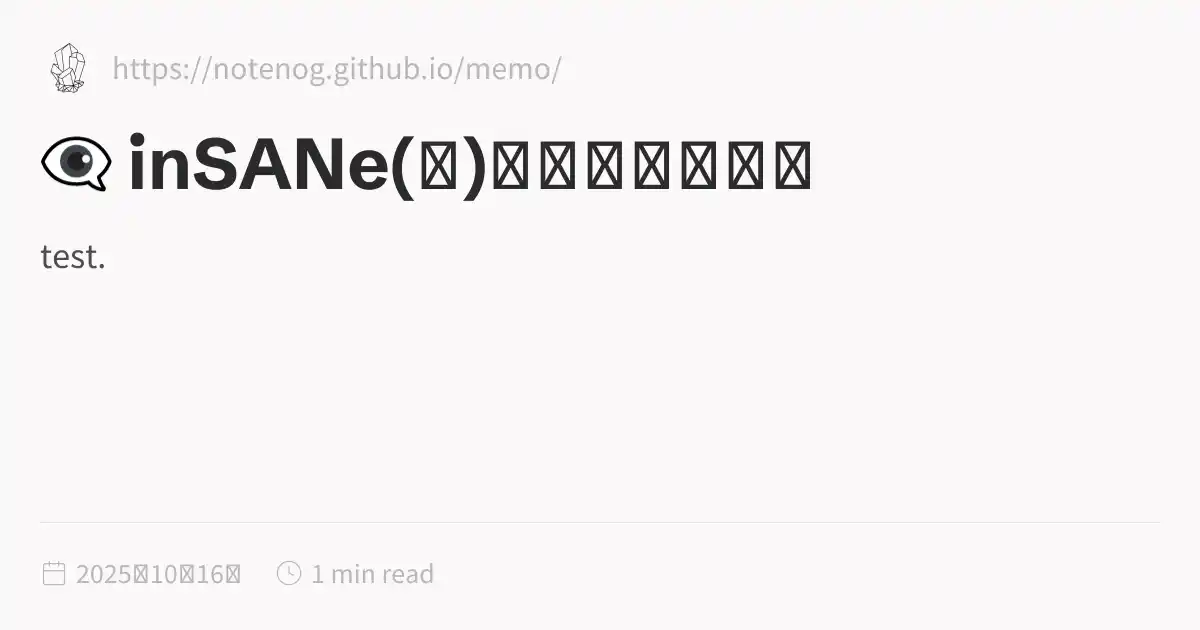
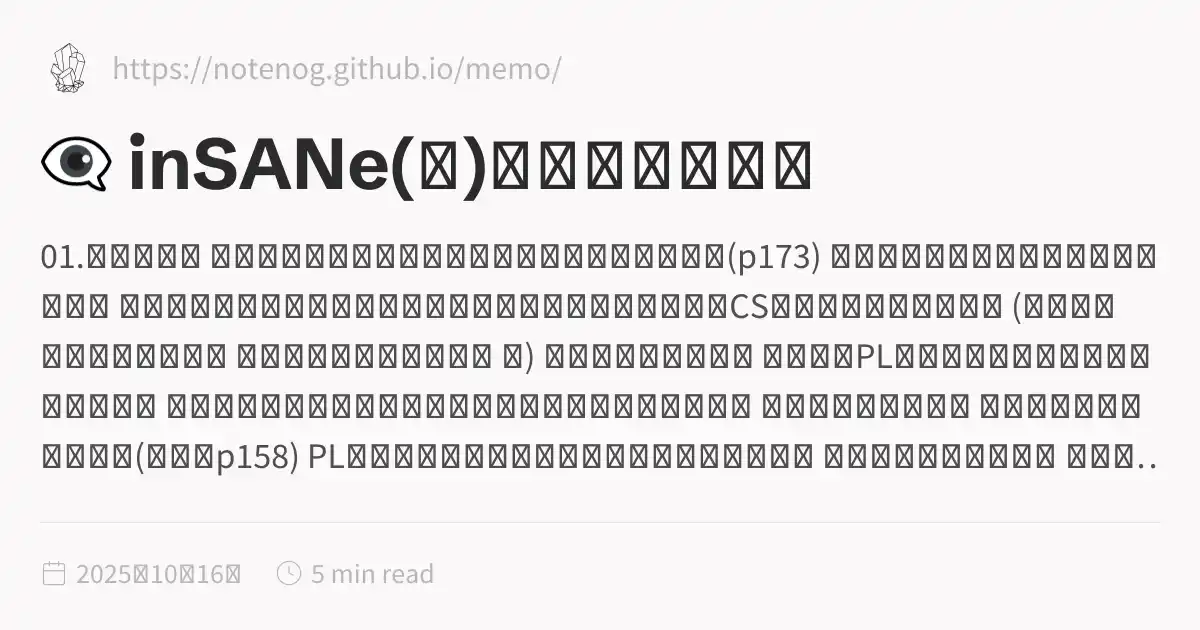
fix: Final push of clean assets with all content emitters disabled

diff --git a/docs/inSANe_old.html b/docs/inSANe_old.html
@@ -1,5 +1,5 @@
 <!DOCTYPE html>
-<html lang="ja" dir="ltr"><head><title>👁🗨 inSANe(旧)／ハウスルール</title><meta charset="utf-8"/><link rel="preconnect" href="https://fonts.googleapis.com"/><link rel="preconnect" href="https://fonts.gstatic.com"/><link rel="stylesheet" href="https://fonts.googleapis.com/css2?family=Schibsted Grotesk:wght@400;700&amp;family=Source Sans Pro:ital,wght@0,400;0,600;1,400;1,600&amp;family=IBM Plex Mono:wght@400;600&amp;display=swap"/><link rel="preconnect" href="https://cdnjs.cloudflare.com" crossorigin="anonymous"/><meta name="viewport" content="width=device-width, initial-scale=1.0"/><meta name="og:site_name" content="MEMO"/><meta property="og:title" content="👁🗨 inSANe(旧)／ハウスルール"/><meta property="og:type" content="website"/><meta name="twitter:card" content="summary_large_image"/><meta name="twitter:title" content="👁🗨 inSANe(旧)／ハウスルール"/><meta name="twitter:description" content="test."/><meta property="og:description" content="test."/><meta property="og:image:alt" content="test."/><meta property="twitter:domain" content="https://notenog.github.io/memo/"/><meta property="og:url" content="https://https//notenog.github.io/memo/inSANe_old"/><meta property="twitter:url" content="https://https//notenog.github.io/memo/inSANe_old"/><link rel="icon" href="./static/icon.png"/><meta name="description" content="test."/><meta name="generator" content="Quartz"/><link href="./index.css" rel="stylesheet" type="text/css" spa-preserve/><style>.expand-button {
+<html lang="ja" dir="ltr"><head><title>👁🗨 inSANe(旧)／ハウスルール</title><meta charset="utf-8"/><link rel="preconnect" href="https://fonts.googleapis.com"/><link rel="preconnect" href="https://fonts.gstatic.com"/><link rel="stylesheet" href="https://fonts.googleapis.com/css2?family=Schibsted Grotesk:wght@400;700&amp;family=Source Sans Pro:ital,wght@0,400;0,600;1,400;1,600&amp;family=IBM Plex Mono:wght@400;600&amp;display=swap"/><link rel="preconnect" href="https://cdnjs.cloudflare.com" crossorigin="anonymous"/><meta name="viewport" content="width=device-width, initial-scale=1.0"/><meta name="og:site_name" content="MEMO"/><meta property="og:title" content="👁🗨 inSANe(旧)／ハウスルール"/><meta property="og:type" content="website"/><meta name="twitter:card" content="summary_large_image"/><meta name="twitter:title" content="👁🗨 inSANe(旧)／ハウスルール"/><meta name="twitter:description" content="01.基本ルール 【キャラクターの職業及び職業の自作について】(p173) 基本的に職業特技を適用して下さい。 職業を自作する際は、職業に当てはめた特技を２つ選び、CSに記載してください。 (例：泥棒「物陰」「効率」 宗教家「歴史」「霊魂」 等) 【行動順について】 希望したPLから順にシーンを回していきます。 あるいは好きなダイスを振って大きい数字順にどうぞ。 【起用選択ルール】 感情判定でのスペシャル(２巻、p158) PL全員がインセイン２巻を所持してる場合のみ 【情報共有について】 感情を結んだ際に起こる「情報共有」は、受け手側が情報を見たいと宣言した時点で共有されます。 能動側が強制..."/><meta property="og:description" content="01.基本ルール 【キャラクターの職業及び職業の自作について】(p173) 基本的に職業特技を適用して下さい。 職業を自作する際は、職業に当てはめた特技を２つ選び、CSに記載してください。 (例：泥棒「物陰」「効率」 宗教家「歴史」「霊魂」 等) 【行動順について】 希望したPLから順にシーンを回していきます。 あるいは好きなダイスを振って大きい数字順にどうぞ。 【起用選択ルール】 感情判定でのスペシャル(２巻、p158) PL全員がインセイン２巻を所持してる場合のみ 【情報共有について】 感情を結んだ際に起こる「情報共有」は、受け手側が情報を見たいと宣言した時点で共有されます。 能動側が強制..."/><meta property="og:image:alt" content="01.基本ルール 【キャラクターの職業及び職業の自作について】(p173) 基本的に職業特技を適用して下さい。 職業を自作する際は、職業に当てはめた特技を２つ選び、CSに記載してください。 (例：泥棒「物陰」「効率」 宗教家「歴史」「霊魂」 等) 【行動順について】 希望したPLから順にシーンを回していきます。 あるいは好きなダイスを振って大きい数字順にどうぞ。 【起用選択ルール】 感情判定でのスペシャル(２巻、p158) PL全員がインセイン２巻を所持してる場合のみ 【情報共有について】 感情を結んだ際に起こる「情報共有」は、受け手側が情報を見たいと宣言した時点で共有されます。 能動側が強制..."/><meta property="twitter:domain" content="https://notenog.github.io/memo/"/><meta property="og:url" content="https://https//notenog.github.io/memo/inSANe_old"/><meta property="twitter:url" content="https://https//notenog.github.io/memo/inSANe_old"/><link rel="icon" href="./static/icon.png"/><meta name="description" content="01.基本ルール 【キャラクターの職業及び職業の自作について】(p173) 基本的に職業特技を適用して下さい。 職業を自作する際は、職業に当てはめた特技を２つ選び、CSに記載してください。 (例：泥棒「物陰」「効率」 宗教家「歴史」「霊魂」 等) 【行動順について】 希望したPLから順にシーンを回していきます。 あるいは好きなダイスを振って大きい数字順にどうぞ。 【起用選択ルール】 感情判定でのスペシャル(２巻、p158) PL全員がインセイン２巻を所持してる場合のみ 【情報共有について】 感情を結んだ際に起こる「情報共有」は、受け手側が情報を見たいと宣言した時点で共有されます。 能動側が強制..."/><meta name="generator" content="Quartz"/><link href="./index.css" rel="stylesheet" type="text/css" spa-preserve/><style>.expand-button {
   position: absolute;
   display: flex;
   float: right;
@@ -116,6 +116,123 @@ pre:hover > .expand-button {
   padding: 0 12px;
   font-size: 14px;
 }
[2 lines of base64/hex data omitted]
+<br/>
+<h2 id="キャラクターの職業及び職業の自作についてp173">【キャラクターの職業及び職業の自作について】(p173)<a role="anchor" aria-hidden="true" tabindex="-1" data-no-popover="true" href="#キャラクターの職業及び職業の自作についてp173" class="internal"><svg width="18" height="18" viewBox="0 0 24 24" fill="none" stroke="currentColor" stroke-width="2" stroke-linecap="round" stroke-linejoin="round"><path d="M10 13a5 5 0 0 0 7.54.54l3-3a5 5 0 0 0-7.07-7.07l-1.72 1.71"></path><path d="M14 11a5 5 0 0 0-7.54-.54l-3 3a5 5 0 0 0 7.07 7.07l1.71-1.71"></path></svg></a></h2>
+<ul>
+<li>基本的に職業特技を適用して下さい。</li>
+<li>職業を自作する際は、職業に当てはめた特技を２つ選び、CSに記載してください。
+　(例：泥棒「物陰」「効率」　宗教家「歴史」「霊魂」　等)</li>
+</ul>
+<br/>
+<h2 id="行動順について">【行動順について】<a role="anchor" aria-hidden="true" tabindex="-1" data-no-popover="true" href="#行動順について" class="internal"><svg width="18" height="18" viewBox="0 0 24 24" fill="none" stroke="currentColor" stroke-width="2" stroke-linecap="round" stroke-linejoin="round"><path d="M10 13a5 5 0 0 0 7.54.54l3-3a5 5 0 0 0-7.07-7.07l-1.72 1.71"></path><path d="M14 11a5 5 0 0 0-7.54-.54l-3 3a5 5 0 0 0 7.07 7.07l1.71-1.71"></path></svg></a></h2>
+<ul>
+<li>希望したPLから順にシーンを回していきます。</li>
+<li>あるいは好きなダイスを振って大きい数字順にどうぞ。</li>
+</ul>
+<br/>
+<h2 id="起用選択ルール">【起用選択ルール】<a role="anchor" aria-hidden="true" tabindex="-1" data-no-popover="true" href="#起用選択ルール" class="internal"><svg width="18" height="18" viewBox="0 0 24 24" fill="none" stroke="currentColor" stroke-width="2" stroke-linecap="round" stroke-linejoin="round"><path d="M10 13a5 5 0 0 0 7.54.54l3-3a5 5 0 0 0-7.07-7.07l-1.72 1.71"></path><path d="M14 11a5 5 0 0 0-7.54-.54l-3 3a5 5 0 0 0 7.07 7.07l1.71-1.71"></path></svg></a></h2>
+<ul>
+<li>感情判定でのスペシャル(２巻、p158)</li>
+</ul>
+<blockquote class="callout info is-collapsible is-collapsed" data-callout="info" data-callout-fold>
+<div class="callout-title">
+                  <div class="callout-icon"></div>
+                  <div class="callout-title-inner"><p>PL全員がインセイン２巻を所持してる場合のみ </p></div>
+                  <div class="fold-callout-icon"></div>
+                </div>
+</blockquote>
+<br/>
+<h2 id="情報共有について">【情報共有について】<a role="anchor" aria-hidden="true" tabindex="-1" data-no-popover="true" href="#情報共有について" class="internal"><svg width="18" height="18" viewBox="0 0 24 24" fill="none" stroke="currentColor" stroke-width="2" stroke-linecap="round" stroke-linejoin="round"><path d="M10 13a5 5 0 0 0 7.54.54l3-3a5 5 0 0 0-7.07-7.07l-1.72 1.71"></path><path d="M14 11a5 5 0 0 0-7.54-.54l-3 3a5 5 0 0 0 7.07 7.07l1.71-1.71"></path></svg></a></h2>
+<ul>
+<li>感情を結んだ際に起こる「情報共有」は、受け手側が情報を見たいと宣言した時点で共有されます。</li>
+</ul>
+<blockquote class="callout info is-collapsible is-collapsed" data-callout="info" data-callout-fold>
+<div class="callout-title">
+                  <div class="callout-icon"></div>
+                  <div class="callout-title-inner"><p>能動側が強制的に見せることは出来ません。 </p></div>
+                  <div class="fold-callout-icon"></div>
+                </div>
+</blockquote>
+<br/>
+<h2 id="好奇心の再挑戦について">【好奇心の再挑戦について】<a role="anchor" aria-hidden="true" tabindex="-1" data-no-popover="true" href="#好奇心の再挑戦について" class="internal"><svg width="18" height="18" viewBox="0 0 24 24" fill="none" stroke="currentColor" stroke-width="2" stroke-linecap="round" stroke-linejoin="round"><path d="M10 13a5 5 0 0 0 7.54.54l3-3a5 5 0 0 0-7.07-7.07l-1.72 1.71"></path><path d="M14 11a5 5 0 0 0-7.54-.54l-3 3a5 5 0 0 0 7.07 7.07l1.71-1.71"></path></svg></a></h2>
+<ul>
+<li>１行為判定につき１度再挑戦可能とします。
+　失敗の場合でもコストは消費します。</li>
+</ul>
+<br/>
+<h2 id="お守りについて">【お守りについて】<a role="anchor" aria-hidden="true" tabindex="-1" data-no-popover="true" href="#お守りについて" class="internal"><svg width="18" height="18" viewBox="0 0 24 24" fill="none" stroke="currentColor" stroke-width="2" stroke-linecap="round" stroke-linejoin="round"><path d="M10 13a5 5 0 0 0 7.54.54l3-3a5 5 0 0 0-7.07-7.07l-1.72 1.71"></path><path d="M14 11a5 5 0 0 0-7.54-.54l-3 3a5 5 0 0 0 7.07 7.07l1.71-1.71"></path></svg></a></h2>
+<ul>
+<li>同じシーンに登場している人のみ投げることが可能です。</li>
+</ul>
+<br/>
+<h2 id="武器ついて">【武器ついて】<a role="anchor" aria-hidden="true" tabindex="-1" data-no-popover="true" href="#武器ついて" class="internal"><svg width="18" height="18" viewBox="0 0 24 24" fill="none" stroke="currentColor" stroke-width="2" stroke-linecap="round" stroke-linejoin="round"><path d="M10 13a5 5 0 0 0 7.54.54l3-3a5 5 0 0 0-7.07-7.07l-1.72 1.71"></path><path d="M14 11a5 5 0 0 0-7.54-.54l-3 3a5 5 0 0 0 7.07 7.07l1.71-1.71"></path></svg></a></h2>
+<ul>
+<li>戦闘中の<b>「行為判定」後</b>、使用することが出来ます。</li>
+</ul>
+<br/> 
+<h2 id="振り直し後の補正について">【振り直し後の補正について】<a role="anchor" aria-hidden="true" tabindex="-1" data-no-popover="true" href="#振り直し後の補正について" class="internal"><svg width="18" height="18" viewBox="0 0 24 24" fill="none" stroke="currentColor" stroke-width="2" stroke-linecap="round" stroke-linejoin="round"><path d="M10 13a5 5 0 0 0 7.54.54l3-3a5 5 0 0 0-7.07-7.07l-1.72 1.71"></path><path d="M14 11a5 5 0 0 0-7.54-.54l-3 3a5 5 0 0 0 7.07 7.07l1.71-1.71"></path></svg></a></h2>
+<p>好奇心、お守り、武器、アビリティ効果で振り直した次の行為判定に対して、改めて補正(感情修正や回想、アビリティ効果)をかけ直すことを可とします。</p>
+<br/>  
+<h2 id="アイテムの受け渡しについて">【アイテムの受け渡しについて】<a role="anchor" aria-hidden="true" tabindex="-1" data-no-popover="true" href="#アイテムの受け渡しについて" class="internal"><svg width="18" height="18" viewBox="0 0 24 24" fill="none" stroke="currentColor" stroke-width="2" stroke-linecap="round" stroke-linejoin="round"><path d="M10 13a5 5 0 0 0 7.54.54l3-3a5 5 0 0 0-7.07-7.07l-1.72 1.71"></path><path d="M14 11a5 5 0 0 0-7.54-.54l-3 3a5 5 0 0 0 7.07 7.07l1.71-1.71"></path></svg></a></h2>
+<ul>
+<li>メインフェイズ～クライマックス戦闘前までは受け渡し自由、</li>
+<li>戦闘中の受け渡しは支援行動とし、能動側が１手番消費すれば可能です。</li>
+</ul>
+<br/>
+<hr/>
+<h1 id="02戦闘ルール">02.戦闘ルール<a role="anchor" aria-hidden="true" tabindex="-1" data-no-popover="true" href="#02戦闘ルール" class="internal"><svg width="18" height="18" viewBox="0 0 24 24" fill="none" stroke="currentColor" stroke-width="2" stroke-linecap="round" stroke-linejoin="round"><path d="M10 13a5 5 0 0 0 7.54.54l3-3a5 5 0 0 0-7.07-7.07l-1.72 1.71"></path><path d="M14 11a5 5 0 0 0-7.54-.54l-3 3a5 5 0 0 0 7.07 7.07l1.71-1.71"></path></svg></a></h1>
+<br/>
+<h3 id="生命点について">【生命点について】<a role="anchor" aria-hidden="true" tabindex="-1" data-no-popover="true" href="#生命点について" class="internal"><svg width="18" height="18" viewBox="0 0 24 24" fill="none" stroke="currentColor" stroke-width="2" stroke-linecap="round" stroke-linejoin="round"><path d="M10 13a5 5 0 0 0 7.54.54l3-3a5 5 0 0 0-7.07-7.07l-1.72 1.71"></path><path d="M14 11a5 5 0 0 0-7.54-.54l-3 3a5 5 0 0 0 7.07 7.07l1.71-1.71"></path></svg></a></h3>
+<ul>
+<li>生命点は０以下になりません。</li>
+<li>生命点０のキャラクターは行動不能になり、何の行動も行うことが出来ません。(p210)
+　そのため、生命点が０になった時点での回復は出来ません。</li>
+</ul>
+<br/>
+<h3 id="回想について">【回想について】<a role="anchor" aria-hidden="true" tabindex="-1" data-no-popover="true" href="#回想について" class="internal"><svg width="18" height="18" viewBox="0 0 24 24" fill="none" stroke="currentColor" stroke-width="2" stroke-linecap="round" stroke-linejoin="round"><path d="M10 13a5 5 0 0 0 7.54.54l3-3a5 5 0 0 0-7.07-7.07l-1.72 1.71"></path><path d="M14 11a5 5 0 0 0-7.54-.54l-3 3a5 5 0 0 0 7.07 7.07l1.71-1.71"></path></svg></a></h3>
+<ul>
+<li>回想においても開かれた秘密でも「ショック」「恐怖判定」は発生します。
+　ただし既に受けたものであれば再度の発生はありません。
+<br/>
+</li>
+<li>回想における「ショック」「恐怖判定」は、回想のダイスロール後に処理を行います。
+<br/>
+</li>
+<li>希望者は自分の回想の際に音楽等を持ち寄ることを自由とします。
+　演出を各自追加して頂いて結構です。
+　自分の回想用カットインのタグには「PC番号」を入れてください。</li>
+</ul>
+<blockquote class="callout info is-collapsible is-collapsed" data-callout="info" data-callout-fold>
+<div class="callout-title">
+                  <div class="callout-icon"></div>
+                  <div class="callout-title-inner"><p>操作が分からない方はGMにご連絡下さい </p></div>
+                  <div class="fold-callout-icon"></div>
+                </div>
+</blockquote>
+<p><br/><br/><br/></p>
+<ul>
+<li>その他、GM側でも自由に使える曲を用意します。</li>
+</ul>
+<br/>
+<hr/>
+<h1 id="03功績点処理">03.功績点処理<a role="anchor" aria-hidden="true" tabindex="-1" data-no-popover="true" href="#03功績点処理" class="internal"><svg width="18" height="18" viewBox="0 0 24 24" fill="none" stroke="currentColor" stroke-width="2" stroke-linecap="round" stroke-linejoin="round"><path d="M10 13a5 5 0 0 0 7.54.54l3-3a5 5 0 0 0-7.07-7.07l-1.72 1.71"></path><path d="M14 11a5 5 0 0 0-7.54-.54l-3 3a5 5 0 0 0 7.07 7.07l1.71-1.71"></path></svg></a></h1>
+<h4 id="セッションに最後まで脱落しなかった">「セッションに最後まで脱落しなかった」<a role="anchor" aria-hidden="true" tabindex="-1" data-no-popover="true" href="#セッションに最後まで脱落しなかった" class="internal"><svg width="18" height="18" viewBox="0 0 24 24" fill="none" stroke="currentColor" stroke-width="2" stroke-linecap="round" stroke-linejoin="round"><path d="M10 13a5 5 0 0 0 7.54.54l3-3a5 5 0 0 0-7.07-7.07l-1.72 1.71"></path><path d="M14 11a5 5 0 0 0-7.54-.54l-3 3a5 5 0 0 0 7.07 7.07l1.71-1.71"></path></svg></a></h4>
+<p>　戦闘における勝利条件に「全員での脱落」が含まれている場合、
+　あるいは「同意のうえ全員で脱落を選択し、勝者なしを選んだ」場合、全員功績点を１点獲得します。</p>
+<br/>
+<h4 id="琴線にふれた">「琴線にふれた」<a role="anchor" aria-hidden="true" tabindex="-1" data-no-popover="true" href="#琴線にふれた" class="internal"><svg width="18" height="18" viewBox="0 0 24 24" fill="none" stroke="currentColor" stroke-width="2" stroke-linecap="round" stroke-linejoin="round"><path d="M10 13a5 5 0 0 0 7.54.54l3-3a5 5 0 0 0-7.07-7.07l-1.72 1.71"></path><path d="M14 11a5 5 0 0 0-7.54-.54l-3 3a5 5 0 0 0 7.07 7.07l1.71-1.71"></path></svg></a></h4>
+<p>　参加PL全員の同意があれば、琴線のPL間選択を撤廃し、GMからPC全員に１点ずつ功績点を与えることが出来ます。</p>
+<br/>
+<hr/>
+<h1 id="04その他">04.その他<a role="anchor" aria-hidden="true" tabindex="-1" data-no-popover="true" href="#04その他" class="internal"><svg width="18" height="18" viewBox="0 0 24 24" fill="none" stroke="currentColor" stroke-width="2" stroke-linecap="round" stroke-linejoin="round"><path d="M10 13a5 5 0 0 0 7.54.54l3-3a5 5 0 0 0-7.07-7.07l-1.72 1.71"></path><path d="M14 11a5 5 0 0 0-7.54-.54l-3 3a5 5 0 0 0 7.07 7.07l1.71-1.71"></path></svg></a></h1>
+<ul>
+<li>一部のPL同士で長時間相談したい場合は専用のタブを作るのでGMにご相談下さい。</li>
+<li>秘匿チャットを長く使用してのPL間相談はご遠慮下さい。
+　情報の認識に誤りがある場合にGMからの訂正が行えないためです。
+　必要であればGMの見える場所でお願いします。
+　(一言二言の雑談程度なら問題ありません　が、推奨はしません)</li>
+</ul>
+<p><br/><br/><br/><br/></p></article><hr/><div class="page-footer"></div></div><div class="right sidebar"><div class="search"><button class="search-button"><svg role="img" xmlns="http://www.w3.org/2000/svg" viewBox="0 0 19.9 19.7"><title>Search</title><g class="search-path" fill="none"><path stroke-linecap="square" d="M18.5 18.3l-5.4-5.4"></path><circle cx="8" cy="8" r="7"></circle></g></svg><p>Search</p></button><div class="search-container"><div class="search-space"><input autocomplete="off" class="search-bar" name="search" type="text" aria-label="検索ワードを入力" placeholder="検索ワードを入力"/><div class="search-layout" data-preview="true"></div></div></div></div><div class="toc desktop-only"><button type="button" class="toc-header" aria-controls="toc-0" aria-expanded="true"><h3>📄 Contents</h3><svg xmlns="http://www.w3.org/2000/svg" width="24" height="24" viewBox="0 0 24 24" fill="none" stroke="currentColor" stroke-width="2" stroke-linecap="round" stroke-linejoin="round" class="fold"><polyline points="6 9 12 15 18 9"></polyline></svg></button><ul id="list-1" class="toc-content overflow"><li class="depth-0"><a href="#01基本ルール" data-for="01基本ルール">01.基本ルール</a></li><li class="depth-1"><a href="#キャラクターの職業及び職業の自作についてp173" data-for="キャラクターの職業及び職業の自作についてp173">【キャラクターの職業及び職業の自作について】(p173)</a></li><li class="depth-1"><a href="#行動順について" data-for="行動順について">【行動順について】</a></li><li class="depth-1"><a href="#起用選択ルール" data-for="起用選択ルール">【起用選択ルール】</a></li><li class="depth-1"><a href="#情報共有について" data-for="情報共有について">【情報共有について】</a></li><li class="depth-1"><a href="#好奇心の再挑戦について" data-for="好奇心の再挑戦について">【好奇心の再挑戦について】</a></li><li class="depth-1"><a href="#お守りについて" data-for="お守りについて">【お守りについて】</a></li><li class="depth-1"><a href="#武器ついて" data-for="武器ついて">【武器ついて】</a></li><li class="depth-1"><a href="#振り直し後の補正について" data-for="振り直し後の補正について">【振り直し後の補正について】</a></li><li class="depth-1"><a href="#アイテムの受け渡しについて" data-for="アイテムの受け渡しについて">【アイテムの受け渡しについて】</a></li><li class="depth-0"><a href="#02戦闘ルール" data-for="02戦闘ルール">02.戦闘ルール</a></li><li class="depth-2"><a href="#生命点について" data-for="生命点について">【生命点について】</a></li><li class="depth-2"><a href="#回想について" data-for="回想について">【回想について】</a></li><li class="depth-0"><a href="#03功績点処理" data-for="03功績点処理">03.功績点処理</a></li><li class="depth-0"><a href="#04その他" data-for="04その他">04.その他</a></li><li class="overflow-end"></li></ul></div></div><footer class><p>Created with <a href="https://quartz.jzhao.xyz/">Quartz v4.5.2</a> © 2025</p><ul><li><a href="https://github.com/jackyzha0/quartz">GitHub</a></li></ul></footer></div></div></body><script type="application/javascript">function n(){let t=this.parentElement;t.classList.toggle("is-collapsed");let e=t.getElementsByClassName("callout-content")[0];if(!e)return;let l=t.classList.contains("is-collapsed");e.style.gridTemplateRows=l?"0fr":"1fr"}function c(){let t=document.getElementsByClassName("callout is-collapsible");for(let e of t){let l=e.getElementsByClassName("callout-title")[0],s=e.getElementsByClassName("callout-content")[0];if(!l||!s)continue;l.addEventListener("click",n),window.addCleanup(()=>l.removeEventListener("click",n));let o=e.classList.contains("is-collapsed");s.style.gridTemplateRows=o?"0fr":"1fr"}}document.addEventListener("nav",c);
 </script><script type="module">function f(i,e){if(!i)return;function r(o){o.target===this&&(o.preventDefault(),o.stopPropagation(),e())}function t(o){o.key.startsWith("Esc")&&(o.preventDefault(),e())}i?.addEventListener("click",r),window.addCleanup(()=>i?.removeEventListener("click",r)),document.addEventListener("keydown",t),window.addCleanup(()=>document.removeEventListener("keydown",t))}function y(i){for(;i.firstChild;)i.removeChild(i.firstChild)}var h=class{constructor(e,r){this.container=e;this.content=r;this.setupEventListeners(),this.setupNavigationControls(),this.resetTransform()}isDragging=!1;startPan={x:0,y:0};currentPan={x:0,y:0};scale=1;MIN_SCALE=.5;MAX_SCALE=3;cleanups=[];setupEventListeners(){let e=this.onMouseDown.bind(this),r=this.onMouseMove.bind(this),t=this.onMouseUp.bind(this),o=this.resetTransform.bind(this);this.container.addEventListener("mousedown",e),document.addEventListener("mousemove",r),document.addEventListener("mouseup",t),window.addEventListener("resize",o),this.cleanups.push(()=>this.container.removeEventListener("mousedown",e),()=>document.removeEventListener("mousemove",r),()=>document.removeEventListener("mouseup",t),()=>window.removeEventListener("resize",o))}cleanup(){for(let e of this.cleanups)e()}setupNavigationControls(){let e=document.createElement("div");e.className="mermaid-controls";let r=this.createButton("+",()=>this.zoom(.1)),t=this.createButton("-",()=>this.zoom(-.1)),o=this.createButton("Reset",()=>this.resetTransform());e.appendChild(t),e.appendChild(o),e.appendChild(r),this.container.appendChild(e)}createButton(e,r){let t=document.createElement("button");return t.textContent=e,t.className="mermaid-control-button",t.addEventListener("click",r),window.addCleanup(()=>t.removeEventListener("click",r)),t}onMouseDown(e){e.button===0&&(this.isDragging=!0,this.startPan={x:e.clientX-this.currentPan.x,y:e.clientY-this.currentPan.y},this.container.style.cursor="grabbing")}onMouseMove(e){this.isDragging&&(e.preventDefault(),this.currentPan={x:e.clientX-this.startPan.x,y:e.clientY-this.startPan.y},this.updateTransform())}onMouseUp(){this.isDragging=!1,this.container.style.cursor="grab"}zoom(e){let r=Math.min(Math.max(this.scale+e,this.MIN_SCALE),this.MAX_SCALE),t=this.content.getBoundingClientRect(),o=t.width/2,n=t.height/2,c=r-this.scale;this.currentPan.x-=o*c,this.currentPan.y-=n*c,this.scale=r,this.updateTransform()}updateTransform(){this.content.style.transform=`translate(${this.currentPan.x}px, ${this.currentPan.y}px) scale(${this.scale})`}resetTransform(){this.scale=1;let e=this.content.querySelector("svg");this.currentPan={x:e.getBoundingClientRect().width/2,y:e.getBoundingClientRect().height/2},this.updateTransform()}},C=["--secondary","--tertiary","--gray","--light","--lightgray","--highlight","--dark","--darkgray","--codeFont"],E;document.addEventListener("nav",async()=>{let e=document.querySelector(".center").querySelectorAll("code.mermaid");if(e.length===0)return;E||=await import("https://cdnjs.cloudflare.com/ajax/libs/mermaid/11.4.0/mermaid.esm.min.mjs");let r=E.default,t=new WeakMap;for(let n of e)t.set(n,n.innerText);async function o(){for(let s of e){s.removeAttribute("data-processed");let a=t.get(s);a&&(s.innerHTML=a)}let n=C.reduce((s,a)=>(s[a]=window.getComputedStyle(document.documentElement).getPropertyValue(a),s),{}),c=document.documentElement.getAttribute("saved-theme")==="dark";r.initialize({startOnLoad:!1,securityLevel:"loose",theme:c?"dark":"base",themeVariables:{fontFamily:n["--codeFont"],primaryColor:n["--light"],primaryTextColor:n["--darkgray"],primaryBorderColor:n["--tertiary"],lineColor:n["--darkgray"],secondaryColor:n["--secondary"],tertiaryColor:n["--tertiary"],clusterBkg:n["--light"],edgeLabelBackground:n["--highlight"]}}),await r.run({nodes:e})}await o(),document.addEventListener("themechange",o),window.addCleanup(()=>document.removeEventListener("themechange",o));for(let n=0;n<e.length;n++){let v=function(){let g=l.querySelector("#mermaid-space"),m=l.querySelector(".mermaid-content");if(!m)return;y(m);let w=c.querySelector("svg").cloneNode(!0);m.appendChild(w),l.classList.add("active"),g.style.cursor="grab",u=new h(g,m)},M=function(){l.classList.remove("active"),u?.cleanup(),u=null},c=e[n],s=c.parentElement,a=s.querySelector(".clipboard-button"),d=s.querySelector(".expand-button"),p=window.getComputedStyle(a),L=a.offsetWidth+parseFloat(p.marginLeft||"0")+parseFloat(p.marginRight||"0");d.style.right=`calc(${L}px + 0.3rem)`,s.prepend(d);let l=s.querySelector("#mermaid-container");if(!l)return;let u=null;d.addEventListener("click",v),f(l,M),window.addCleanup(()=>{u?.cleanup(),d.removeEventListener("click",v)})}});
 </script><script src="https://cdn.jsdelivr.net/npm/katex@0.16.11/dist/contrib/copy-tex.min.js" type="application/javascript"></script><script src="./postscript.js" type="module"></script></html>

diff --git a/docs/index.html b/docs/index.html
@@ -116,7 +116,7 @@ pre:hover > .expand-button {
   padding: 0 12px;
   font-size: 14px;
 }
[2 lines of base64/hex data omitted]
 <h2 id="-使用ツール">【🔧 使用ツール】<a role="anchor" aria-hidden="true" tabindex="-1" data-no-popover="true" href="#-使用ツール" class="internal"><svg width="18" height="18" viewBox="0 0 24 24" fill="none" stroke="currentColor" stroke-width="2" stroke-linecap="round" stroke-linejoin="round"><path d="M10 13a5 5 0 0 0 7.54.54l3-3a5 5 0 0 0-7.07-7.07l-1.72 1.71"></path><path d="M14 11a5 5 0 0 0-7.54-.54l-3 3a5 5 0 0 0 7.07 7.07l1.71-1.71"></path></svg></a></h2>
 <ul>
 <li>Tekey()を使用します</li>
@@ -147,6 +147,6 @@ pre:hover > .expand-button {
 <li>厳密には「NPC」「マップ」「エネミー」等は映さないようによく注意して下さい</li>
 <li>ただし、セッション中にGMから別途指示がある場合はそちらを優先して下さい</li>
 </ul>
-<p><br/> <br/></p></article><hr/><div class="page-footer"></div></div><div class="right sidebar"><div class="search"><button class="search-button"><svg role="img" xmlns="http://www.w3.org/2000/svg" viewBox="0 0 19.9 19.7"><title>Search</title><g class="search-path" fill="none"><path stroke-linecap="square" d="M18.5 18.3l-5.4-5.4"></path><circle cx="8" cy="8" r="7"></circle></g></svg><p>Search</p></button><div class="search-container"><div class="search-space"><input autocomplete="off" class="search-bar" name="search" type="text" aria-label="検索ワードを入力" placeholder="検索ワードを入力"/><div class="search-layout" data-preview="true"></div></div></div></div><div class="toc desktop-only"><button type="button" class="toc-header" aria-controls="toc-0" aria-expanded="true"><h3>📄 Contents</h3><svg xmlns="http://www.w3.org/2000/svg" width="24" height="24" viewBox="0 0 24 24" fill="none" stroke="currentColor" stroke-width="2" stroke-linecap="round" stroke-linejoin="round" class="fold"><polyline points="6 9 12 15 18 9"></polyline></svg></button><ul id="list-1" class="toc-content overflow"><li class="depth-0"><a href="#01-セッション前準備" data-for="01-セッション前準備">01. セッション前準備</a></li><li class="depth-1"><a href="#-使用ツール" data-for="-使用ツール">【🔧 使用ツール】</a></li><li class="depth-1"><a href="#-立ち絵サイズ" data-for="-立ち絵サイズ">【✨ 立ち絵サイズ】</a></li><li class="depth-0"><a href="#02-セッション当日準備" data-for="02-セッション当日準備">02. セッション当日準備</a></li><li class="depth-1"><a href="#-立ち絵位置" data-for="-立ち絵位置">【💁♀ 立ち絵位置】</a></li><li class="depth-1"><a href="#-文字色" data-for="-文字色">【🎨 文字色】</a></li><li class="depth-1"><a href="#-スクリーンショットの公開" data-for="-スクリーンショットの公開">【📸 スクリーンショットの公開】</a></li><li class="overflow-end"></li></ul></div></div><footer class><p>Created with <a href="https://quartz.jzhao.xyz/">Quartz v4.5.2</a> © 2025</p><ul><li><a href="https://github.com/jackyzha0/quartz">GitHub</a></li></ul></footer></div></div></body><script type="application/javascript">function n(){let t=this.parentElement;t.classList.toggle("is-collapsed");let e=t.getElementsByClassName("callout-content")[0];if(!e)return;let l=t.classList.contains("is-collapsed");e.style.gridTemplateRows=l?"0fr":"1fr"}function c(){let t=document.getElementsByClassName("callout is-collapsible");for(let e of t){let l=e.getElementsByClassName("callout-title")[0],s=e.getElementsByClassName("callout-content")[0];if(!l||!s)continue;l.addEventListener("click",n),window.addCleanup(()=>l.removeEventListener("click",n));let o=e.classList.contains("is-collapsed");s.style.gridTemplateRows=o?"0fr":"1fr"}}document.addEventListener("nav",c);
+<p><br/> <br/></p></article><hr/><div class="page-footer"></div></div><div class="right sidebar"><div class="search"><button class="search-button"><svg role="img" xmlns="http://www.w3.org/2000/svg" viewBox="0 0 19.9 19.7"><title>Search</title><g class="search-path" fill="none"><path stroke-linecap="square" d="M18.5 18.3l-5.4-5.4"></path><circle cx="8" cy="8" r="7"></circle></g></svg><p>Search</p></button><div class="search-container"><div class="search-space"><input autocomplete="off" class="search-bar" name="search" type="text" aria-label="検索ワードを入力" placeholder="検索ワードを入力"/><div class="search-layout" data-preview="true"></div></div></div></div><div class="toc desktop-only"><button type="button" class="toc-header" aria-controls="toc-1" aria-expanded="true"><h3>📄 Contents</h3><svg xmlns="http://www.w3.org/2000/svg" width="24" height="24" viewBox="0 0 24 24" fill="none" stroke="currentColor" stroke-width="2" stroke-linecap="round" stroke-linejoin="round" class="fold"><polyline points="6 9 12 15 18 9"></polyline></svg></button><ul id="list-1" class="toc-content overflow"><li class="depth-0"><a href="#01-セッション前準備" data-for="01-セッション前準備">01. セッション前準備</a></li><li class="depth-1"><a href="#-使用ツール" data-for="-使用ツール">【🔧 使用ツール】</a></li><li class="depth-1"><a href="#-立ち絵サイズ" data-for="-立ち絵サイズ">【✨ 立ち絵サイズ】</a></li><li class="depth-0"><a href="#02-セッション当日準備" data-for="02-セッション当日準備">02. セッション当日準備</a></li><li class="depth-1"><a href="#-立ち絵位置" data-for="-立ち絵位置">【💁♀ 立ち絵位置】</a></li><li class="depth-1"><a href="#-文字色" data-for="-文字色">【🎨 文字色】</a></li><li class="depth-1"><a href="#-スクリーンショットの公開" data-for="-スクリーンショットの公開">【📸 スクリーンショットの公開】</a></li><li class="overflow-end"></li></ul></div></div><footer class><p>Created with <a href="https://quartz.jzhao.xyz/">Quartz v4.5.2</a> © 2025</p><ul><li><a href="https://github.com/jackyzha0/quartz">GitHub</a></li></ul></footer></div></div></body><script type="application/javascript">function n(){let t=this.parentElement;t.classList.toggle("is-collapsed");let e=t.getElementsByClassName("callout-content")[0];if(!e)return;let l=t.classList.contains("is-collapsed");e.style.gridTemplateRows=l?"0fr":"1fr"}function c(){let t=document.getElementsByClassName("callout is-collapsible");for(let e of t){let l=e.getElementsByClassName("callout-title")[0],s=e.getElementsByClassName("callout-content")[0];if(!l||!s)continue;l.addEventListener("click",n),window.addCleanup(()=>l.removeEventListener("click",n));let o=e.classList.contains("is-collapsed");s.style.gridTemplateRows=o?"0fr":"1fr"}}document.addEventListener("nav",c);
 </script><script type="module">function f(i,e){if(!i)return;function r(o){o.target===this&&(o.preventDefault(),o.stopPropagation(),e())}function t(o){o.key.startsWith("Esc")&&(o.preventDefault(),e())}i?.addEventListener("click",r),window.addCleanup(()=>i?.removeEventListener("click",r)),document.addEventListener("keydown",t),window.addCleanup(()=>document.removeEventListener("keydown",t))}function y(i){for(;i.firstChild;)i.removeChild(i.firstChild)}var h=class{constructor(e,r){this.container=e;this.content=r;this.setupEventListeners(),this.setupNavigationControls(),this.resetTransform()}isDragging=!1;startPan={x:0,y:0};currentPan={x:0,y:0};scale=1;MIN_SCALE=.5;MAX_SCALE=3;cleanups=[];setupEventListeners(){let e=this.onMouseDown.bind(this),r=this.onMouseMove.bind(this),t=this.onMouseUp.bind(this),o=this.resetTransform.bind(this);this.container.addEventListener("mousedown",e),document.addEventListener("mousemove",r),document.addEventListener("mouseup",t),window.addEventListener("resize",o),this.cleanups.push(()=>this.container.removeEventListener("mousedown",e),()=>document.removeEventListener("mousemove",r),()=>document.removeEventListener("mouseup",t),()=>window.removeEventListener("resize",o))}cleanup(){for(let e of this.cleanups)e()}setupNavigationControls(){let e=document.createElement("div");e.className="mermaid-controls";let r=this.createButton("+",()=>this.zoom(.1)),t=this.createButton("-",()=>this.zoom(-.1)),o=this.createButton("Reset",()=>this.resetTransform());e.appendChild(t),e.appendChild(o),e.appendChild(r),this.container.appendChild(e)}createButton(e,r){let t=document.createElement("button");return t.textContent=e,t.className="mermaid-control-button",t.addEventListener("click",r),window.addCleanup(()=>t.removeEventListener("click",r)),t}onMouseDown(e){e.button===0&&(this.isDragging=!0,this.startPan={x:e.clientX-this.currentPan.x,y:e.clientY-this.currentPan.y},this.container.style.cursor="grabbing")}onMouseMove(e){this.isDragging&&(e.preventDefault(),this.currentPan={x:e.clientX-this.startPan.x,y:e.clientY-this.startPan.y},this.updateTransform())}onMouseUp(){this.isDragging=!1,this.container.style.cursor="grab"}zoom(e){let r=Math.min(Math.max(this.scale+e,this.MIN_SCALE),this.MAX_SCALE),t=this.content.getBoundingClientRect(),o=t.width/2,n=t.height/2,c=r-this.scale;this.currentPan.x-=o*c,this.currentPan.y-=n*c,this.scale=r,this.updateTransform()}updateTransform(){this.content.style.transform=`translate(${this.currentPan.x}px, ${this.currentPan.y}px) scale(${this.scale})`}resetTransform(){this.scale=1;let e=this.content.querySelector("svg");this.currentPan={x:e.getBoundingClientRect().width/2,y:e.getBoundingClientRect().height/2},this.updateTransform()}},C=["--secondary","--tertiary","--gray","--light","--lightgray","--highlight","--dark","--darkgray","--codeFont"],E;document.addEventListener("nav",async()=>{let e=document.querySelector(".center").querySelectorAll("code.mermaid");if(e.length===0)return;E||=await import("https://cdnjs.cloudflare.com/ajax/libs/mermaid/11.4.0/mermaid.esm.min.mjs");let r=E.default,t=new WeakMap;for(let n of e)t.set(n,n.innerText);async function o(){for(let s of e){s.removeAttribute("data-processed");let a=t.get(s);a&&(s.innerHTML=a)}let n=C.reduce((s,a)=>(s[a]=window.getComputedStyle(document.documentElement).getPropertyValue(a),s),{}),c=document.documentElement.getAttribute("saved-theme")==="dark";r.initialize({startOnLoad:!1,securityLevel:"loose",theme:c?"dark":"base",themeVariables:{fontFamily:n["--codeFont"],primaryColor:n["--light"],primaryTextColor:n["--darkgray"],primaryBorderColor:n["--tertiary"],lineColor:n["--darkgray"],secondaryColor:n["--secondary"],tertiaryColor:n["--tertiary"],clusterBkg:n["--light"],edgeLabelBackground:n["--highlight"]}}),await r.run({nodes:e})}await o(),document.addEventListener("themechange",o),window.addCleanup(()=>document.removeEventListener("themechange",o));for(let n=0;n<e.length;n++){let v=function(){let g=l.querySelector("#mermaid-space"),m=l.querySelector(".mermaid-content");if(!m)return;y(m);let w=c.querySelector("svg").cloneNode(!0);m.appendChild(w),l.classList.add("active"),g.style.cursor="grab",u=new h(g,m)},M=function(){l.classList.remove("active"),u?.cleanup(),u=null},c=e[n],s=c.parentElement,a=s.querySelector(".clipboard-button"),d=s.querySelector(".expand-button"),p=window.getComputedStyle(a),L=a.offsetWidth+parseFloat(p.marginLeft||"0")+parseFloat(p.marginRight||"0");d.style.right=`calc(${L}px + 0.3rem)`,s.prepend(d);let l=s.querySelector("#mermaid-container");if(!l)return;let u=null;d.addEventListener("click",v),f(l,M),window.addCleanup(()=>{u?.cleanup(),d.removeEventListener("click",v)})}});
 </script><script src="https://cdn.jsdelivr.net/npm/katex@0.16.11/dist/contrib/copy-tex.min.js" type="application/javascript"></script><script src="./postscript.js" type="module"></script></html>

diff --git a/docs/inSANe_new.html b/docs/inSANe_new.html
@@ -1,5 +1,5 @@
 <!DOCTYPE html>
-<html lang="ja" dir="ltr"><head><title>👁 inSANe(新)／ハウスルール</title><meta charset="utf-8"/><link rel="preconnect" href="https://fonts.googleapis.com"/><link rel="preconnect" href="https://fonts.gstatic.com"/><link rel="stylesheet" href="https://fonts.googleapis.com/css2?family=Schibsted Grotesk:wght@400;700&amp;family=Source Sans Pro:ital,wght@0,400;0,600;1,400;1,600&amp;family=IBM Plex Mono:wght@400;600&amp;display=swap"/><link rel="preconnect" href="https://cdnjs.cloudflare.com" crossorigin="anonymous"/><meta name="viewport" content="width=device-width, initial-scale=1.0"/><meta name="og:site_name" content="MEMO"/><meta property="og:title" content="👁 inSANe(新)／ハウスルール"/><meta property="og:type" content="website"/><meta name="twitter:card" content="summary_large_image"/><meta name="twitter:title" content="👁 inSANe(新)／ハウスルール"/><meta name="twitter:description" content="test."/><meta property="og:description" content="test."/><meta property="og:image:alt" content="test."/><meta property="twitter:domain" content="https://notenog.github.io/memo/"/><meta property="og:url" content="https://https//notenog.github.io/memo/inSANe_new"/><meta property="twitter:url" content="https://https//notenog.github.io/memo/inSANe_new"/><link rel="icon" href="./static/icon.png"/><meta name="description" content="test."/><meta name="generator" content="Quartz"/><link href="./index.css" rel="stylesheet" type="text/css" spa-preserve/><style>.expand-button {
+<html lang="ja" dir="ltr"><head><title>👁 inSANe(新)／ハウスルール</title><meta charset="utf-8"/><link rel="preconnect" href="https://fonts.googleapis.com"/><link rel="preconnect" href="https://fonts.gstatic.com"/><link rel="stylesheet" href="https://fonts.googleapis.com/css2?family=Schibsted Grotesk:wght@400;700&amp;family=Source Sans Pro:ital,wght@0,400;0,600;1,400;1,600&amp;family=IBM Plex Mono:wght@400;600&amp;display=swap"/><link rel="preconnect" href="https://cdnjs.cloudflare.com" crossorigin="anonymous"/><meta name="viewport" content="width=device-width, initial-scale=1.0"/><meta name="og:site_name" content="MEMO"/><meta property="og:title" content="👁 inSANe(新)／ハウスルール"/><meta property="og:type" content="website"/><meta name="twitter:card" content="summary_large_image"/><meta name="twitter:title" content="👁 inSANe(新)／ハウスルール"/><meta name="twitter:description" content="準備中 ."/><meta property="og:description" content="準備中 ."/><meta property="og:image:alt" content="準備中 ."/><meta property="twitter:domain" content="https://notenog.github.io/memo/"/><meta property="og:url" content="https://https//notenog.github.io/memo/inSANe_new"/><meta property="twitter:url" content="https://https//notenog.github.io/memo/inSANe_new"/><link rel="icon" href="./static/icon.png"/><meta name="description" content="準備中 ."/><meta name="generator" content="Quartz"/><link href="./index.css" rel="stylesheet" type="text/css" spa-preserve/><style>.expand-button {
   position: absolute;
   display: flex;
   float: right;
@@ -116,6 +116,8 @@ pre:hover > .expand-button {
   padding: 0 12px;
   font-size: 14px;
 }
[2 lines of base64/hex data omitted]
+<p><strong>準備中</strong></p>
+<p><br/><br/><br/></p></article><hr/><div class="page-footer"></div></div><div class="right sidebar"><div class="search"><button class="search-button"><svg role="img" xmlns="http://www.w3.org/2000/svg" viewBox="0 0 19.9 19.7"><title>Search</title><g class="search-path" fill="none"><path stroke-linecap="square" d="M18.5 18.3l-5.4-5.4"></path><circle cx="8" cy="8" r="7"></circle></g></svg><p>Search</p></button><div class="search-container"><div class="search-space"><input autocomplete="off" class="search-bar" name="search" type="text" aria-label="検索ワードを入力" placeholder="検索ワードを入力"/><div class="search-layout" data-preview="true"></div></div></div></div></div><footer class><p>Created with <a href="https://quartz.jzhao.xyz/">Quartz v4.5.2</a> © 2025</p><ul><li><a href="https://github.com/jackyzha0/quartz">GitHub</a></li></ul></footer></div></div></body><script type="application/javascript">function n(){let t=this.parentElement;t.classList.toggle("is-collapsed");let e=t.getElementsByClassName("callout-content")[0];if(!e)return;let l=t.classList.contains("is-collapsed");e.style.gridTemplateRows=l?"0fr":"1fr"}function c(){let t=document.getElementsByClassName("callout is-collapsible");for(let e of t){let l=e.getElementsByClassName("callout-title")[0],s=e.getElementsByClassName("callout-content")[0];if(!l||!s)continue;l.addEventListener("click",n),window.addCleanup(()=>l.removeEventListener("click",n));let o=e.classList.contains("is-collapsed");s.style.gridTemplateRows=o?"0fr":"1fr"}}document.addEventListener("nav",c);
 </script><script type="module">function f(i,e){if(!i)return;function r(o){o.target===this&&(o.preventDefault(),o.stopPropagation(),e())}function t(o){o.key.startsWith("Esc")&&(o.preventDefault(),e())}i?.addEventListener("click",r),window.addCleanup(()=>i?.removeEventListener("click",r)),document.addEventListener("keydown",t),window.addCleanup(()=>document.removeEventListener("keydown",t))}function y(i){for(;i.firstChild;)i.removeChild(i.firstChild)}var h=class{constructor(e,r){this.container=e;this.content=r;this.setupEventListeners(),this.setupNavigationControls(),this.resetTransform()}isDragging=!1;startPan={x:0,y:0};currentPan={x:0,y:0};scale=1;MIN_SCALE=.5;MAX_SCALE=3;cleanups=[];setupEventListeners(){let e=this.onMouseDown.bind(this),r=this.onMouseMove.bind(this),t=this.onMouseUp.bind(this),o=this.resetTransform.bind(this);this.container.addEventListener("mousedown",e),document.addEventListener("mousemove",r),document.addEventListener("mouseup",t),window.addEventListener("resize",o),this.cleanups.push(()=>this.container.removeEventListener("mousedown",e),()=>document.removeEventListener("mousemove",r),()=>document.removeEventListener("mouseup",t),()=>window.removeEventListener("resize",o))}cleanup(){for(let e of this.cleanups)e()}setupNavigationControls(){let e=document.createElement("div");e.className="mermaid-controls";let r=this.createButton("+",()=>this.zoom(.1)),t=this.createButton("-",()=>this.zoom(-.1)),o=this.createButton("Reset",()=>this.resetTransform());e.appendChild(t),e.appendChild(o),e.appendChild(r),this.container.appendChild(e)}createButton(e,r){let t=document.createElement("button");return t.textContent=e,t.className="mermaid-control-button",t.addEventListener("click",r),window.addCleanup(()=>t.removeEventListener("click",r)),t}onMouseDown(e){e.button===0&&(this.isDragging=!0,this.startPan={x:e.clientX-this.currentPan.x,y:e.clientY-this.currentPan.y},this.container.style.cursor="grabbing")}onMouseMove(e){this.isDragging&&(e.preventDefault(),this.currentPan={x:e.clientX-this.startPan.x,y:e.clientY-this.startPan.y},this.updateTransform())}onMouseUp(){this.isDragging=!1,this.container.style.cursor="grab"}zoom(e){let r=Math.min(Math.max(this.scale+e,this.MIN_SCALE),this.MAX_SCALE),t=this.content.getBoundingClientRect(),o=t.width/2,n=t.height/2,c=r-this.scale;this.currentPan.x-=o*c,this.currentPan.y-=n*c,this.scale=r,this.updateTransform()}updateTransform(){this.content.style.transform=`translate(${this.currentPan.x}px, ${this.currentPan.y}px) scale(${this.scale})`}resetTransform(){this.scale=1;let e=this.content.querySelector("svg");this.currentPan={x:e.getBoundingClientRect().width/2,y:e.getBoundingClientRect().height/2},this.updateTransform()}},C=["--secondary","--tertiary","--gray","--light","--lightgray","--highlight","--dark","--darkgray","--codeFont"],E;document.addEventListener("nav",async()=>{let e=document.querySelector(".center").querySelectorAll("code.mermaid");if(e.length===0)return;E||=await import("https://cdnjs.cloudflare.com/ajax/libs/mermaid/11.4.0/mermaid.esm.min.mjs");let r=E.default,t=new WeakMap;for(let n of e)t.set(n,n.innerText);async function o(){for(let s of e){s.removeAttribute("data-processed");let a=t.get(s);a&&(s.innerHTML=a)}let n=C.reduce((s,a)=>(s[a]=window.getComputedStyle(document.documentElement).getPropertyValue(a),s),{}),c=document.documentElement.getAttribute("saved-theme")==="dark";r.initialize({startOnLoad:!1,securityLevel:"loose",theme:c?"dark":"base",themeVariables:{fontFamily:n["--codeFont"],primaryColor:n["--light"],primaryTextColor:n["--darkgray"],primaryBorderColor:n["--tertiary"],lineColor:n["--darkgray"],secondaryColor:n["--secondary"],tertiaryColor:n["--tertiary"],clusterBkg:n["--light"],edgeLabelBackground:n["--highlight"]}}),await r.run({nodes:e})}await o(),document.addEventListener("themechange",o),window.addCleanup(()=>document.removeEventListener("themechange",o));for(let n=0;n<e.length;n++){let v=function(){let g=l.querySelector("#mermaid-space"),m=l.querySelector(".mermaid-content");if(!m)return;y(m);let w=c.querySelector("svg").cloneNode(!0);m.appendChild(w),l.classList.add("active"),g.style.cursor="grab",u=new h(g,m)},M=function(){l.classList.remove("active"),u?.cleanup(),u=null},c=e[n],s=c.parentElement,a=s.querySelector(".clipboard-button"),d=s.querySelector(".expand-button"),p=window.getComputedStyle(a),L=a.offsetWidth+parseFloat(p.marginLeft||"0")+parseFloat(p.marginRight||"0");d.style.right=`calc(${L}px + 0.3rem)`,s.prepend(d);let l=s.querySelector("#mermaid-container");if(!l)return;let u=null;d.addEventListener("click",v),f(l,M),window.addCleanup(()=>{u?.cleanup(),d.removeEventListener("click",v)})}});
 </script><script src="https://cdn.jsdelivr.net/npm/katex@0.16.11/dist/contrib/copy-tex.min.js" type="application/javascript"></script><script src="./postscript.js" type="module"></script></html>

diff --git a/content/inSANe_old.md b/content/inSANe_old.md
@@ -4,4 +4,114 @@ draft: false
 order: 3
 ---
 
-test
+# 01.基本ルール
+<br>
+
+## 【キャラクターの職業及び職業の自作について】(p173)
+* 基本的に職業特技を適用して下さい。
+* 職業を自作する際は、職業に当てはめた特技を２つ選び、CSに記載してください。
+　(例：泥棒「物陰」「効率」　宗教家「歴史」「霊魂」　等)
+
+<br>
+
+## 【行動順について】
+* 希望したPLから順にシーンを回していきます。
+* あるいは好きなダイスを振って大きい数字順にどうぞ。
+
+<br>
+
+## 【起用選択ルール】
+* 感情判定でのスペシャル(２巻、p158)
+> [!info]- PL全員がインセイン２巻を所持してる場合のみ
+
+<br>
+
+## 【情報共有について】
+* 感情を結んだ際に起こる「情報共有」は、受け手側が情報を見たいと宣言した時点で共有されます。
+> [!info]- 能動側が強制的に見せることは出来ません。
+
+<br>
+
+## 【好奇心の再挑戦について】
+* １行為判定につき１度再挑戦可能とします。
+　失敗の場合でもコストは消費します。
+
+<br>
+
+## 【お守りについて】
+* 同じシーンに登場している人のみ投げることが可能です。
+
+<br>
+
+## 【武器ついて】
+* 戦闘中の<b>「行為判定」後</b>、使用することが出来ます。
+
+<br> 
+
+## 【振り直し後の補正について】
+
+好奇心、お守り、武器、アビリティ効果で振り直した次の行為判定に対して、改めて補正(感情修正や回想、アビリティ効果)をかけ直すことを可とします。
+
+<br>  
+
+## 【アイテムの受け渡しについて】
+* メインフェイズ～クライマックス戦闘前までは受け渡し自由、
+* 戦闘中の受け渡しは支援行動とし、能動側が１手番消費すれば可能です。
+
+<br>
+
+___
+
+# 02.戦闘ルール
+<br>
+
+### 【生命点について】
+* 生命点は０以下になりません。
+* 生命点０のキャラクターは行動不能になり、何の行動も行うことが出来ません。(p210)
+　そのため、生命点が０になった時点での回復は出来ません。
+
+<br>
+
+### 【回想について】
+* 回想においても開かれた秘密でも「ショック」「恐怖判定」は発生します。
+　ただし既に受けたものであれば再度の発生はありません。
+<br>
+* 回想における「ショック」「恐怖判定」は、回想のダイスロール後に処理を行います。
+<br>
+ * 希望者は自分の回想の際に音楽等を持ち寄ることを自由とします。
+　演出を各自追加して頂いて結構です。
+　自分の回想用カットインのタグには「PC番号」を入れてください。
+> [!info]- 操作が分からない方はGMにご連絡下さい
+<br><br><br>
+
+* その他、GM側でも自由に使える曲を用意します。
+
+<br>
+
+___
+
+# 03.功績点処理
+
+#### 「セッションに最後まで脱落しなかった」
+
+　戦闘における勝利条件に「全員での脱落」が含まれている場合、
+　あるいは「同意のうえ全員で脱落を選択し、勝者なしを選んだ」場合、全員功績点を１点獲得します。
+
+<br>
+
+#### 「琴線にふれた」
+
+　参加PL全員の同意があれば、琴線のPL間選択を撤廃し、GMからPC全員に１点ずつ功績点を与えることが出来ます。
+
+<br>
+
+___
+
+# 04.その他
+* 一部のPL同士で長時間相談したい場合は専用のタブを作るのでGMにご相談下さい。
+* 秘匿チャットを長く使用してのPL間相談はご遠慮下さい。
+　情報の認識に誤りがある場合にGMからの訂正が行えないためです。
+　必要であればGMの見える場所でお願いします。
+　(一言二言の雑談程度なら問題ありません　が、推奨はしません)
+
+<br><br><br><br>

diff --git a/content/index.md b/content/index.md
@@ -2,6 +2,7 @@
 title: "index"
 draft: false
 ---
+
 # 01. セッション前準備
 ## 【🔧 使用ツール】
 * Tekey()を使用します

diff --git a/content/inSANe_new.md b/content/inSANe_new.md
@@ -4,4 +4,8 @@ draft: false
 order: 2
 ---
 
-test
+<br>
+
+**準備中**
+
+<br><br><br>
